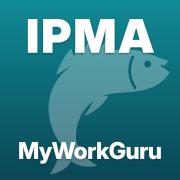
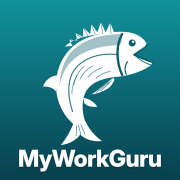
Ícone: sem IPMA, robalo redesenhado em destaque
Claude-Session: https://claude.ai/code/session_01RNT2LqXDMyXEorvfBXpmKm

diff --git a/app.js b/app.js
@@ -940,7 +940,7 @@ var EYE='<svg width="20" height="20" viewBox="0 0 24 24" fill="none" stroke="cur
 var EYE_OFF='<svg width="20" height="20" viewBox="0 0 24 24" fill="none" stroke="currentColor" stroke-width="2" stroke-linecap="round" stroke-linejoin="round"><path d="M10.6 5.1A10.7 10.7 0 0 1 12 5c6.5 0 10 7 10 7a17 17 0 0 1-2.4 3.3M6.6 6.6C3.8 8.3 2 12 2 12s3.5 7 10 7c1.9 0 3.5-.5 4.9-1.3"/><path d="M9.9 9.9a3 3 0 0 0 4.2 4.2"/><path d="M3 3l18 18"/></svg>';
 var ROLE_L={pending:"A aguardar",viewer:"Só leitura",editor:"Editor",admin:"Administrador"};
 var meUnsub=null,pendUnsub=null,pendingCount=0,authUser=null,entered=false,regName="";
-function authShell(inner){root.innerHTML='<div class="auth"><div class="auth-card"><div class="auth-logo"><img src="icon-192.png" alt="IPMA MyWorkGuru" width="96" height="96"></div>'+inner+'</div></div><div class="toast" id="toast"></div>'}
+function authShell(inner){root.innerHTML='<div class="auth"><div class="auth-card"><div class="auth-logo"><img src="icon-192.png" alt="MyWorkGuru" width="96" height="96"></div>'+inner+'</div></div><div class="toast" id="toast"></div>'}
 function showAuthMsg(m){authShell('<p class="auth-p">'+esc(m)+'</p><button class="btn ghost wide" id="a-out">Terminar sessão</button>');$("a-out").onclick=doSignOut}
 function authErr(e){var c=(e&&e.code)||"";return({
   "auth/invalid-credential":"Email ou palavra-passe errados.","auth/wrong-password":"Email ou palavra-passe errados.","auth/user-not-found":"Não existe conta com esse email.",
